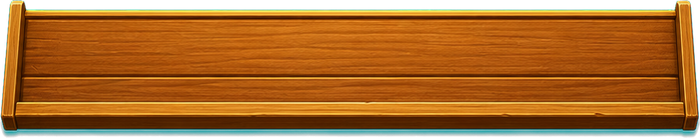
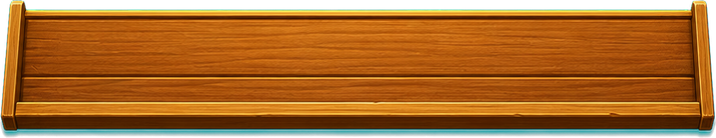
新增场面争夺模式 + v5视觉 + 重建字体

diff --git a/game/assets_v2/fitted/bake_fitted.py b/game/assets_v2/fitted/bake_fitted.py
@@ -23,10 +23,11 @@ def nine(src,W,H,sl,st,sr,sb,tl,tt,tr,tb):
     return out
 
 # ---------- 几何(与 main.gd 对齐) ----------
-TW,TH,SX,SY=70,100,75,106
-COLS,ROWS=9,6; PADX,PADY=15,28
-grid_w=(COLS-1)*SX+TW; grid_h=(ROWS-1)*SY+TH        # 670 x 630
-felt_w=grid_w+2*PADX; felt_h=grid_h+2*PADY           # 700 x 686
+# v5: 略缩卡牌、网格更深地内收进毛毡绿区(四周留更大边距, 不再贴边/压叶子)
+TW,TH,SX,SY=66,94,73,100
+COLS,ROWS=9,6; PADX,PADY=33,38
+grid_w=(COLS-1)*SX+TW; grid_h=(ROWS-1)*SY+TH        # 650 x 594
+felt_w=grid_w+2*PADX; felt_h=grid_h+2*PADY           # 716 x 670
 
 # felt.png = 毛毡(九宫格留叶角) + 格位
 felt=nine(crop_opaque(load("board/table_felt.png")),felt_w,felt_h,165,150,165,150,165,150,165,150)